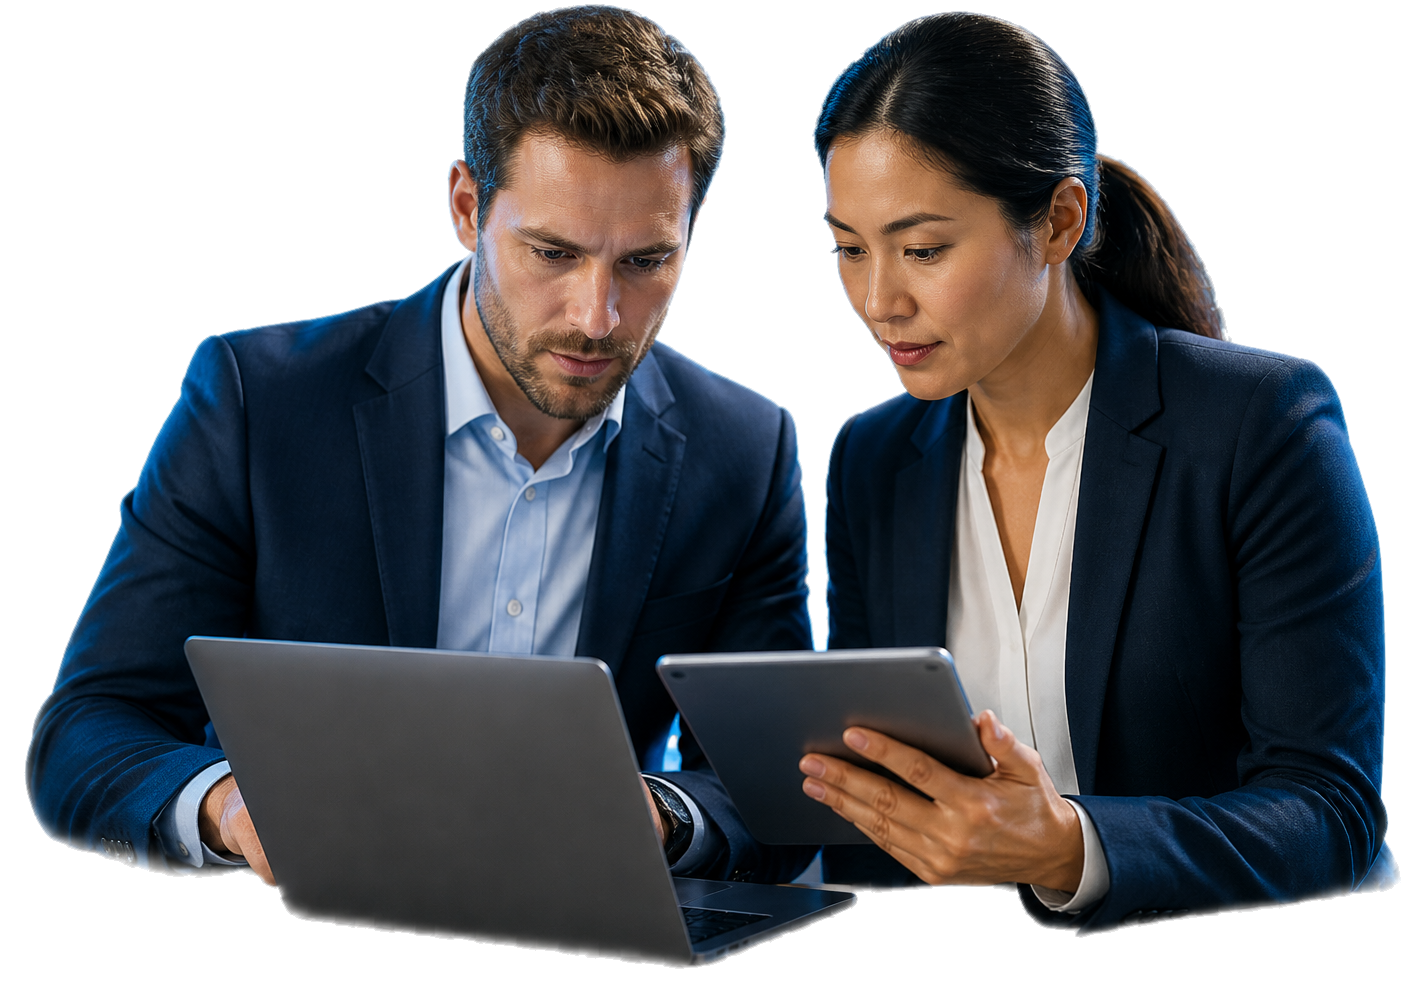
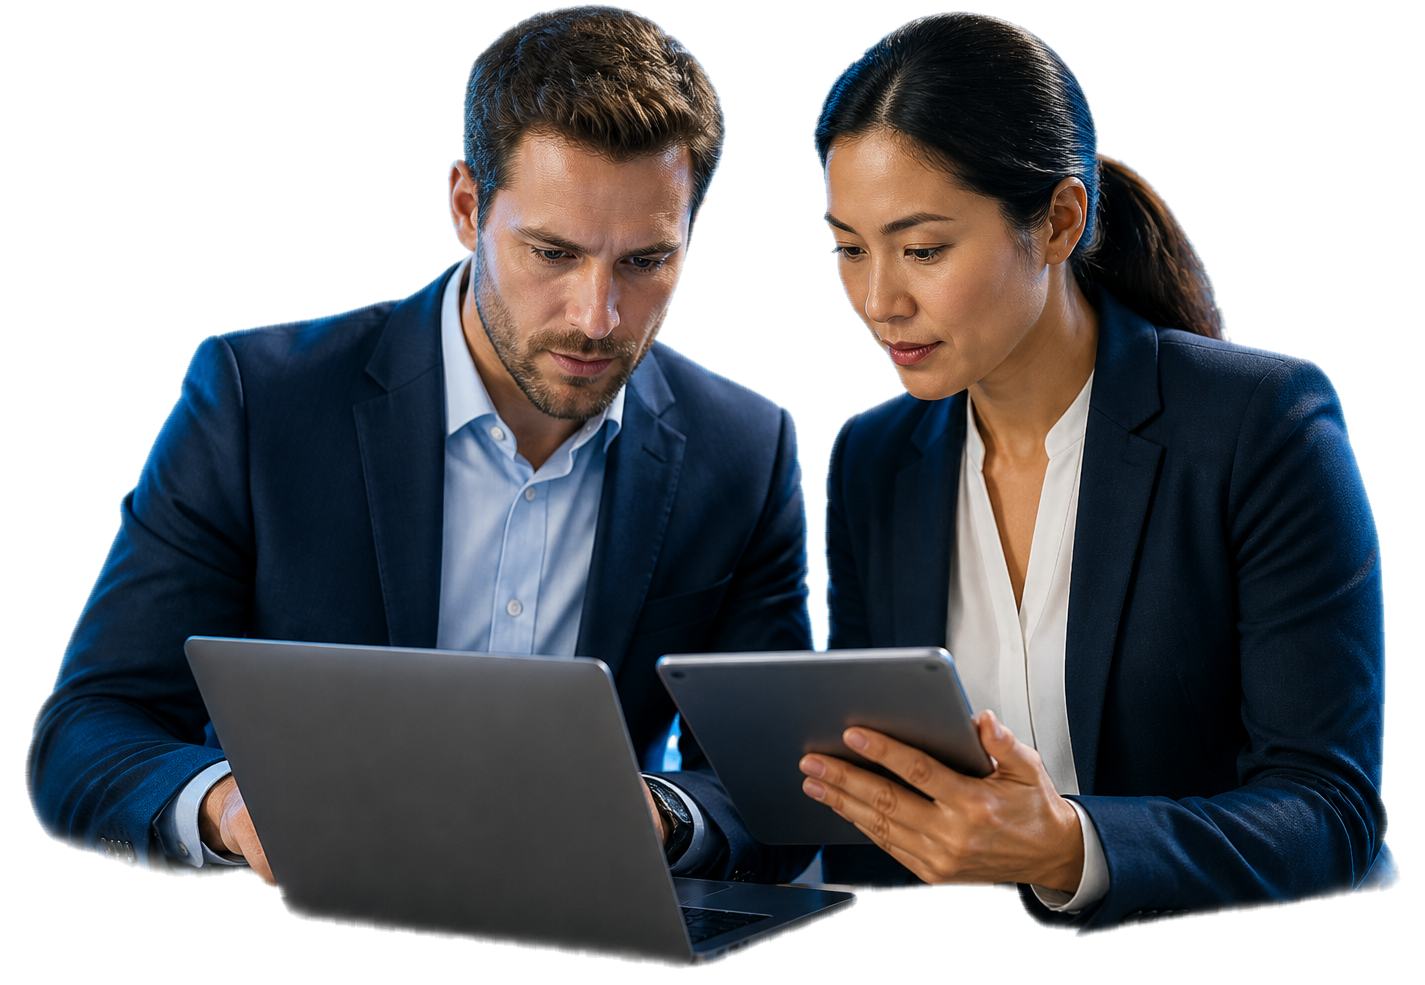
Soften sales cutout edges
Feathers the alpha edges of the sales cutout imagery and cache-busts the image URLs for the live page.

diff --git a/index.html b/index.html
@@ -160,7 +160,7 @@
                     <div class="grid md:grid-cols-2 gap-10 md:gap-14 items-center">
                         <div class="order-2 md:order-1 sales-screenshot-stack">
                             <div class="sales-cutout-layer sales-cutout-layer--wide" aria-hidden="true">
-                                <img src="assets/proposal-delivery-team-cutout.png?v=photo-lift-3" alt="" width="1536" height="965" loading="lazy">
+                                <img src="assets/proposal-delivery-team-cutout.png?v=photo-feather-1" alt="" width="1536" height="965" loading="lazy">
                             </div>
                             <div class="screenshot-frame">
                                 <img src="assets/proposal-irr-feature.png" alt="Enterprise proposal builder and IRR calculator" width="1600" height="900">
@@ -181,7 +181,7 @@
                         </div>
                         <div class="sales-screenshot-stack">
                             <div class="sales-cutout-layer sales-cutout-layer--compact" aria-hidden="true">
-                                <img src="assets/sales-irr-analysis-cutout.png?v=photo-lift-3" alt="" width="1425" height="985" loading="lazy">
+                                <img src="assets/sales-irr-analysis-cutout.png?v=photo-feather-1" alt="" width="1425" height="985" loading="lazy">
                             </div>
                             <div class="screenshot-frame">
                                 <img src="assets/feature-deals.png" alt="Constellation deals pipeline and forecasting page" width="1600" height="900">
@@ -208,7 +208,7 @@
                         </div>
                         <div class="sales-screenshot-stack">
                             <div class="sales-cutout-layer sales-cutout-layer--social" aria-hidden="true">
-                                <img src="assets/linkedin-social-posting-cutout.png?v=photo-lift-3" alt="" width="1439" height="979" loading="lazy">
+                                <img src="assets/linkedin-social-posting-cutout.png?v=photo-feather-1" alt="" width="1439" height="979" loading="lazy">
                             </div>
                             <div class="screenshot-frame">
                                 <img src="assets/feature-social.png" alt="Constellation Social Hub with AI LinkedIn post generation" width="1600" height="900">
